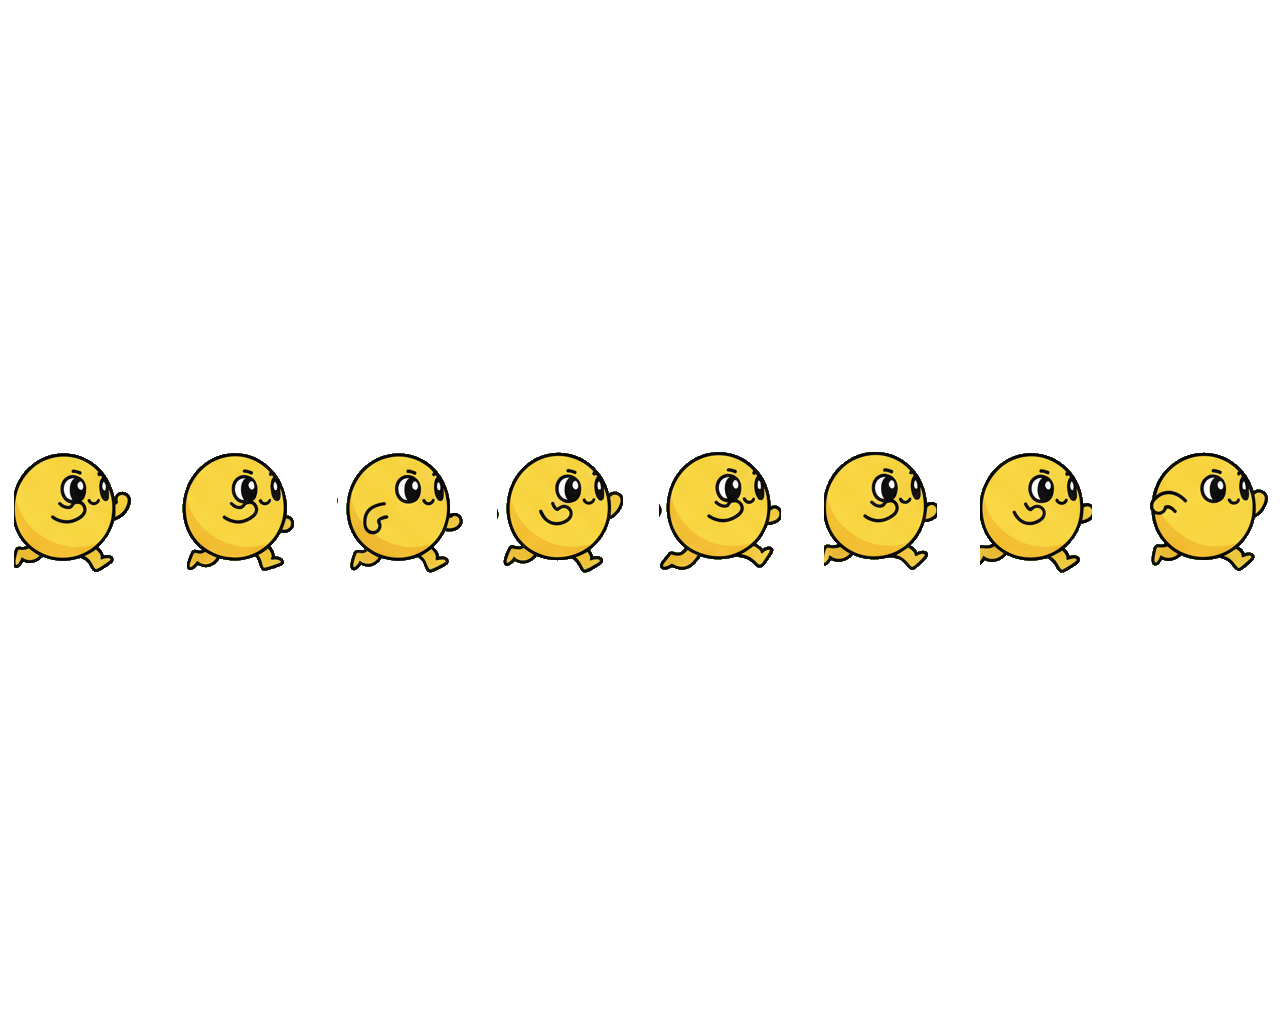
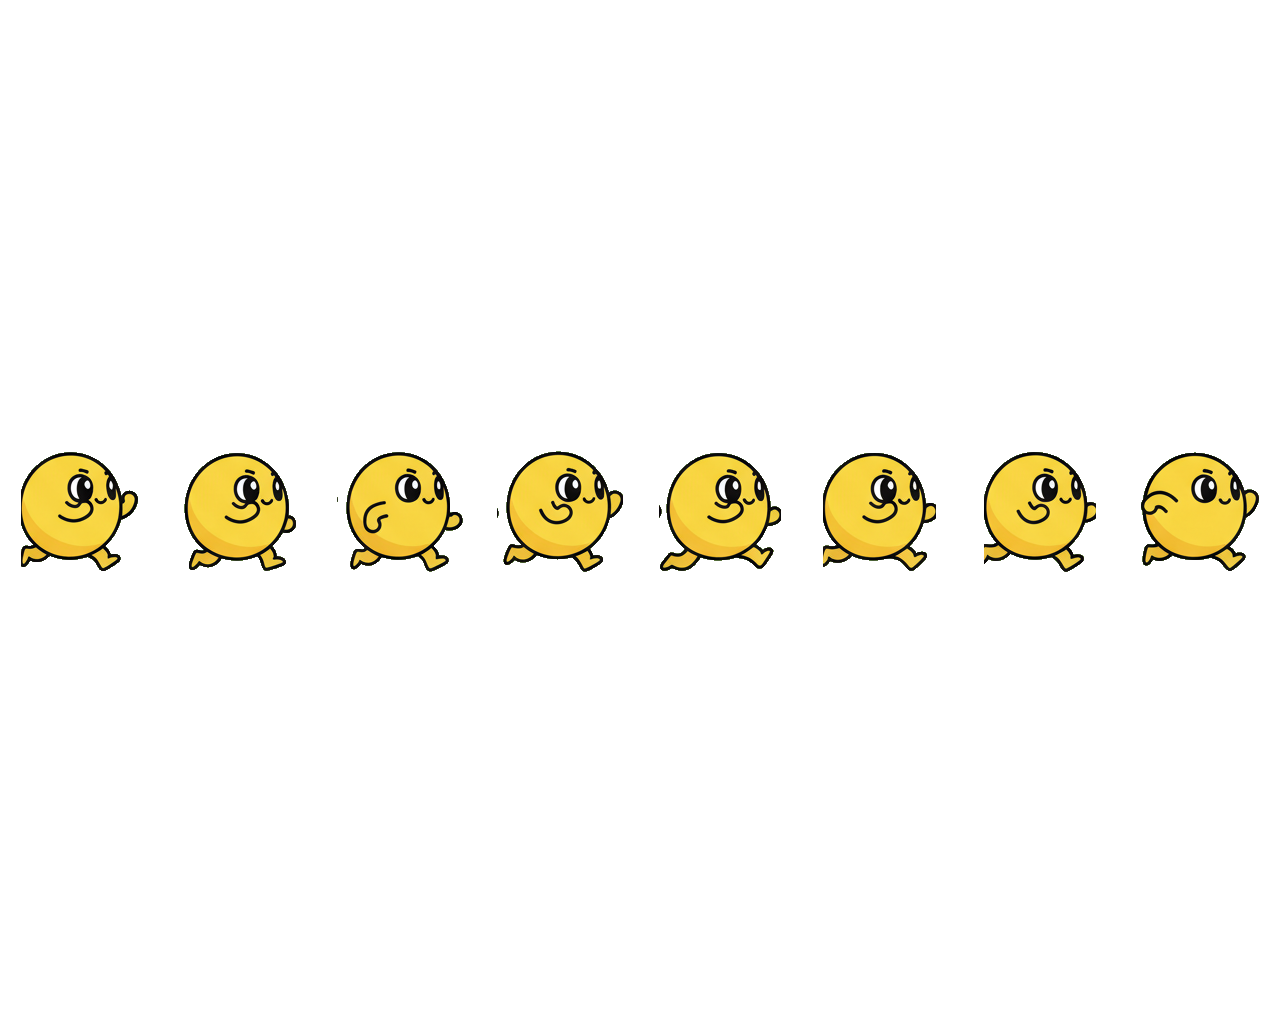
fix player

diff --git a/tools/center_sprite_cells.py b/tools/center_sprite_cells.py
@@ -1,0 +1,90 @@
+#!/usr/bin/env python3
+"""
+Center align content in each cell of a sprite sheet
+"""
+
+from PIL import Image
+import sys
+
+def get_content_bounds(img):
+    """Get bounding box of non-transparent content"""
+    pixels = img.load()
+    width, height = img.size
+
+    min_x, min_y = width, height
+    max_x, max_y = 0, 0
+
+    for y in range(height):
+        for x in range(width):
+            r, g, b, a = pixels[x, y]
+            if a > 50:  # Non-transparent pixel
+                min_x = min(min_x, x)
+                min_y = min(min_y, y)
+                max_x = max(max_x, x)
+                max_y = max(max_y, y)
+
+    if min_x > max_x:  # No content found
+        return None
+
+    return (min_x, min_y, max_x + 1, max_y + 1)
+
+def center_sprite_cells(input_path, output_path, slice_x=8, slice_y=1):
+    """
+    Center align content in each cell of sprite sheet
+
+    Args:
+        input_path: Input sprite sheet path
+        output_path: Output sprite sheet path
+        slice_x: Number of columns
+        slice_y: Number of rows
+    """
+    img = Image.open(input_path).convert('RGBA')
+    width, height = img.size
+
+    cell_width = width // slice_x
+    cell_height = height // slice_y
+
+    print(f"Image size: {width}x{height}")
+    print(f"Cell size: {cell_width}x{cell_height}")
+    print(f"Grid: {slice_x}x{slice_y}")
+
+    # Create new image
+    new_img = Image.new('RGBA', (width, height), (0, 0, 0, 0))
+
+    # Process each cell
+    for row in range(slice_y):
+        for col in range(slice_x):
+            # Extract cell
+            x = col * cell_width
+            y = row * cell_height
+            cell = img.crop((x, y, x + cell_width, y + cell_height))
+
+            # Get content bounds
+            bounds = get_content_bounds(cell)
+            if bounds:
+                content = cell.crop(bounds)
+                content_width, content_height = content.size
+
+                # Center content in cell
+                new_x = x + (cell_width - content_width) // 2
+                new_y = y + (cell_height - content_height) // 2
+
+                new_img.paste(content, (new_x, new_y), content)
+                print(f"  Cell ({col},{row}): content {content_width}x{content_height} → centered at ({new_x-x},{new_y-y})")
+            else:
+                print(f"  Cell ({col},{row}): empty")
+
+    new_img.save(output_path, 'PNG')
+    print(f"✅ Saved to {output_path}")
+
+if __name__ == '__main__':
+    if len(sys.argv) < 3:
+        print("Usage: python center_sprite_cells.py <input_path> <output_path> [slice_x] [slice_y]")
+        sys.exit(1)
+
+    input_path = sys.argv[1]
+    output_path = sys.argv[2]
+    slice_x = int(sys.argv[3]) if len(sys.argv) > 3 else 8
+    slice_y = int(sys.argv[4]) if len(sys.argv) > 4 else 1
+
+    center_sprite_cells(input_path, output_path, slice_x, slice_y)
